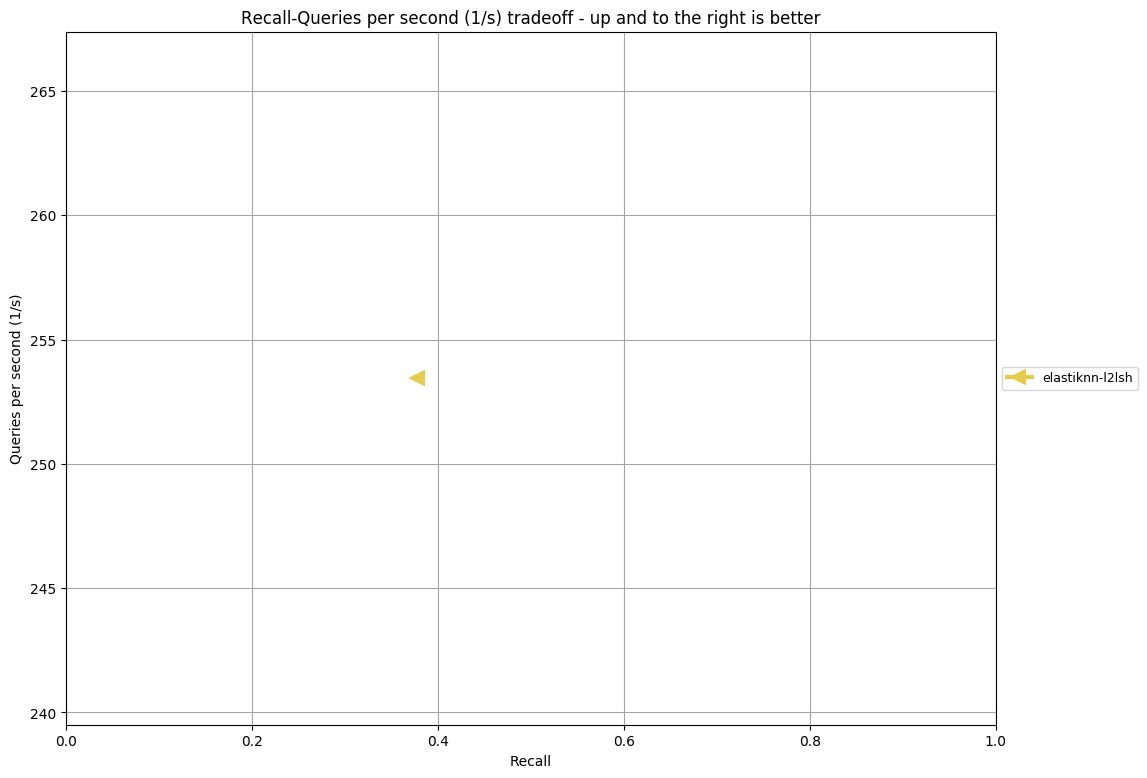
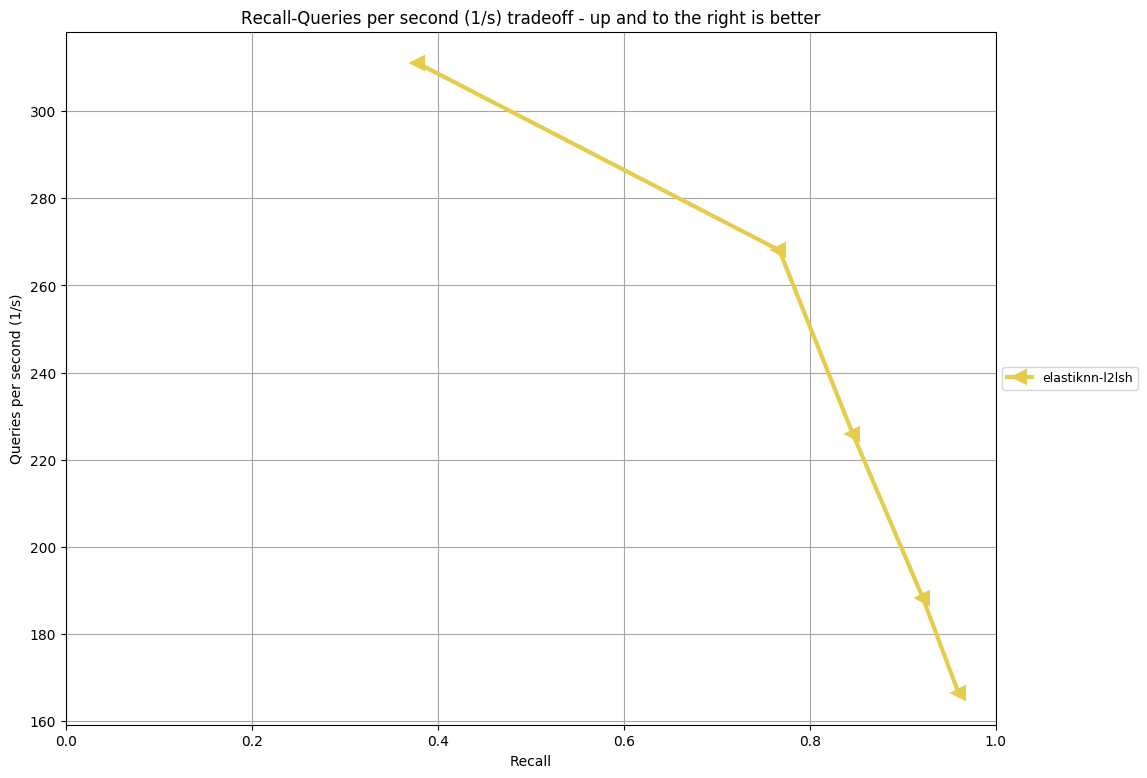
Updated results

diff --git a/docs/pages/performance/fashion-mnist/results.md b/docs/pages/performance/fashion-mnist/results.md
@@ -1,3 +1,10 @@
 |Model|Parameters|Recall|Queries per Second|
 |---|---|---|---|
-|eknn-l2lsh|L=100 k=4 w=1024 candidates=500 probes=0|0.379|253.445|
+|eknn-l2lsh|L=100 k=4 w=1024 candidates=500 probes=0|0.378|311.018|
+|eknn-l2lsh|L=100 k=4 w=1024 candidates=1000 probes=0|0.447|254.704|
+|eknn-l2lsh|L=100 k=4 w=1024 candidates=500 probes=3|0.635|247.214|
+|eknn-l2lsh|L=100 k=4 w=1024 candidates=1000 probes=3|0.717|219.134|
+|eknn-l2lsh|L=100 k=4 w=2048 candidates=500 probes=0|0.767|268.072|
+|eknn-l2lsh|L=100 k=4 w=2048 candidates=1000 probes=0|0.846|225.828|
+|eknn-l2lsh|L=100 k=4 w=2048 candidates=500 probes=3|0.922|188.321|
+|eknn-l2lsh|L=100 k=4 w=2048 candidates=1000 probes=3|0.960|166.405|
